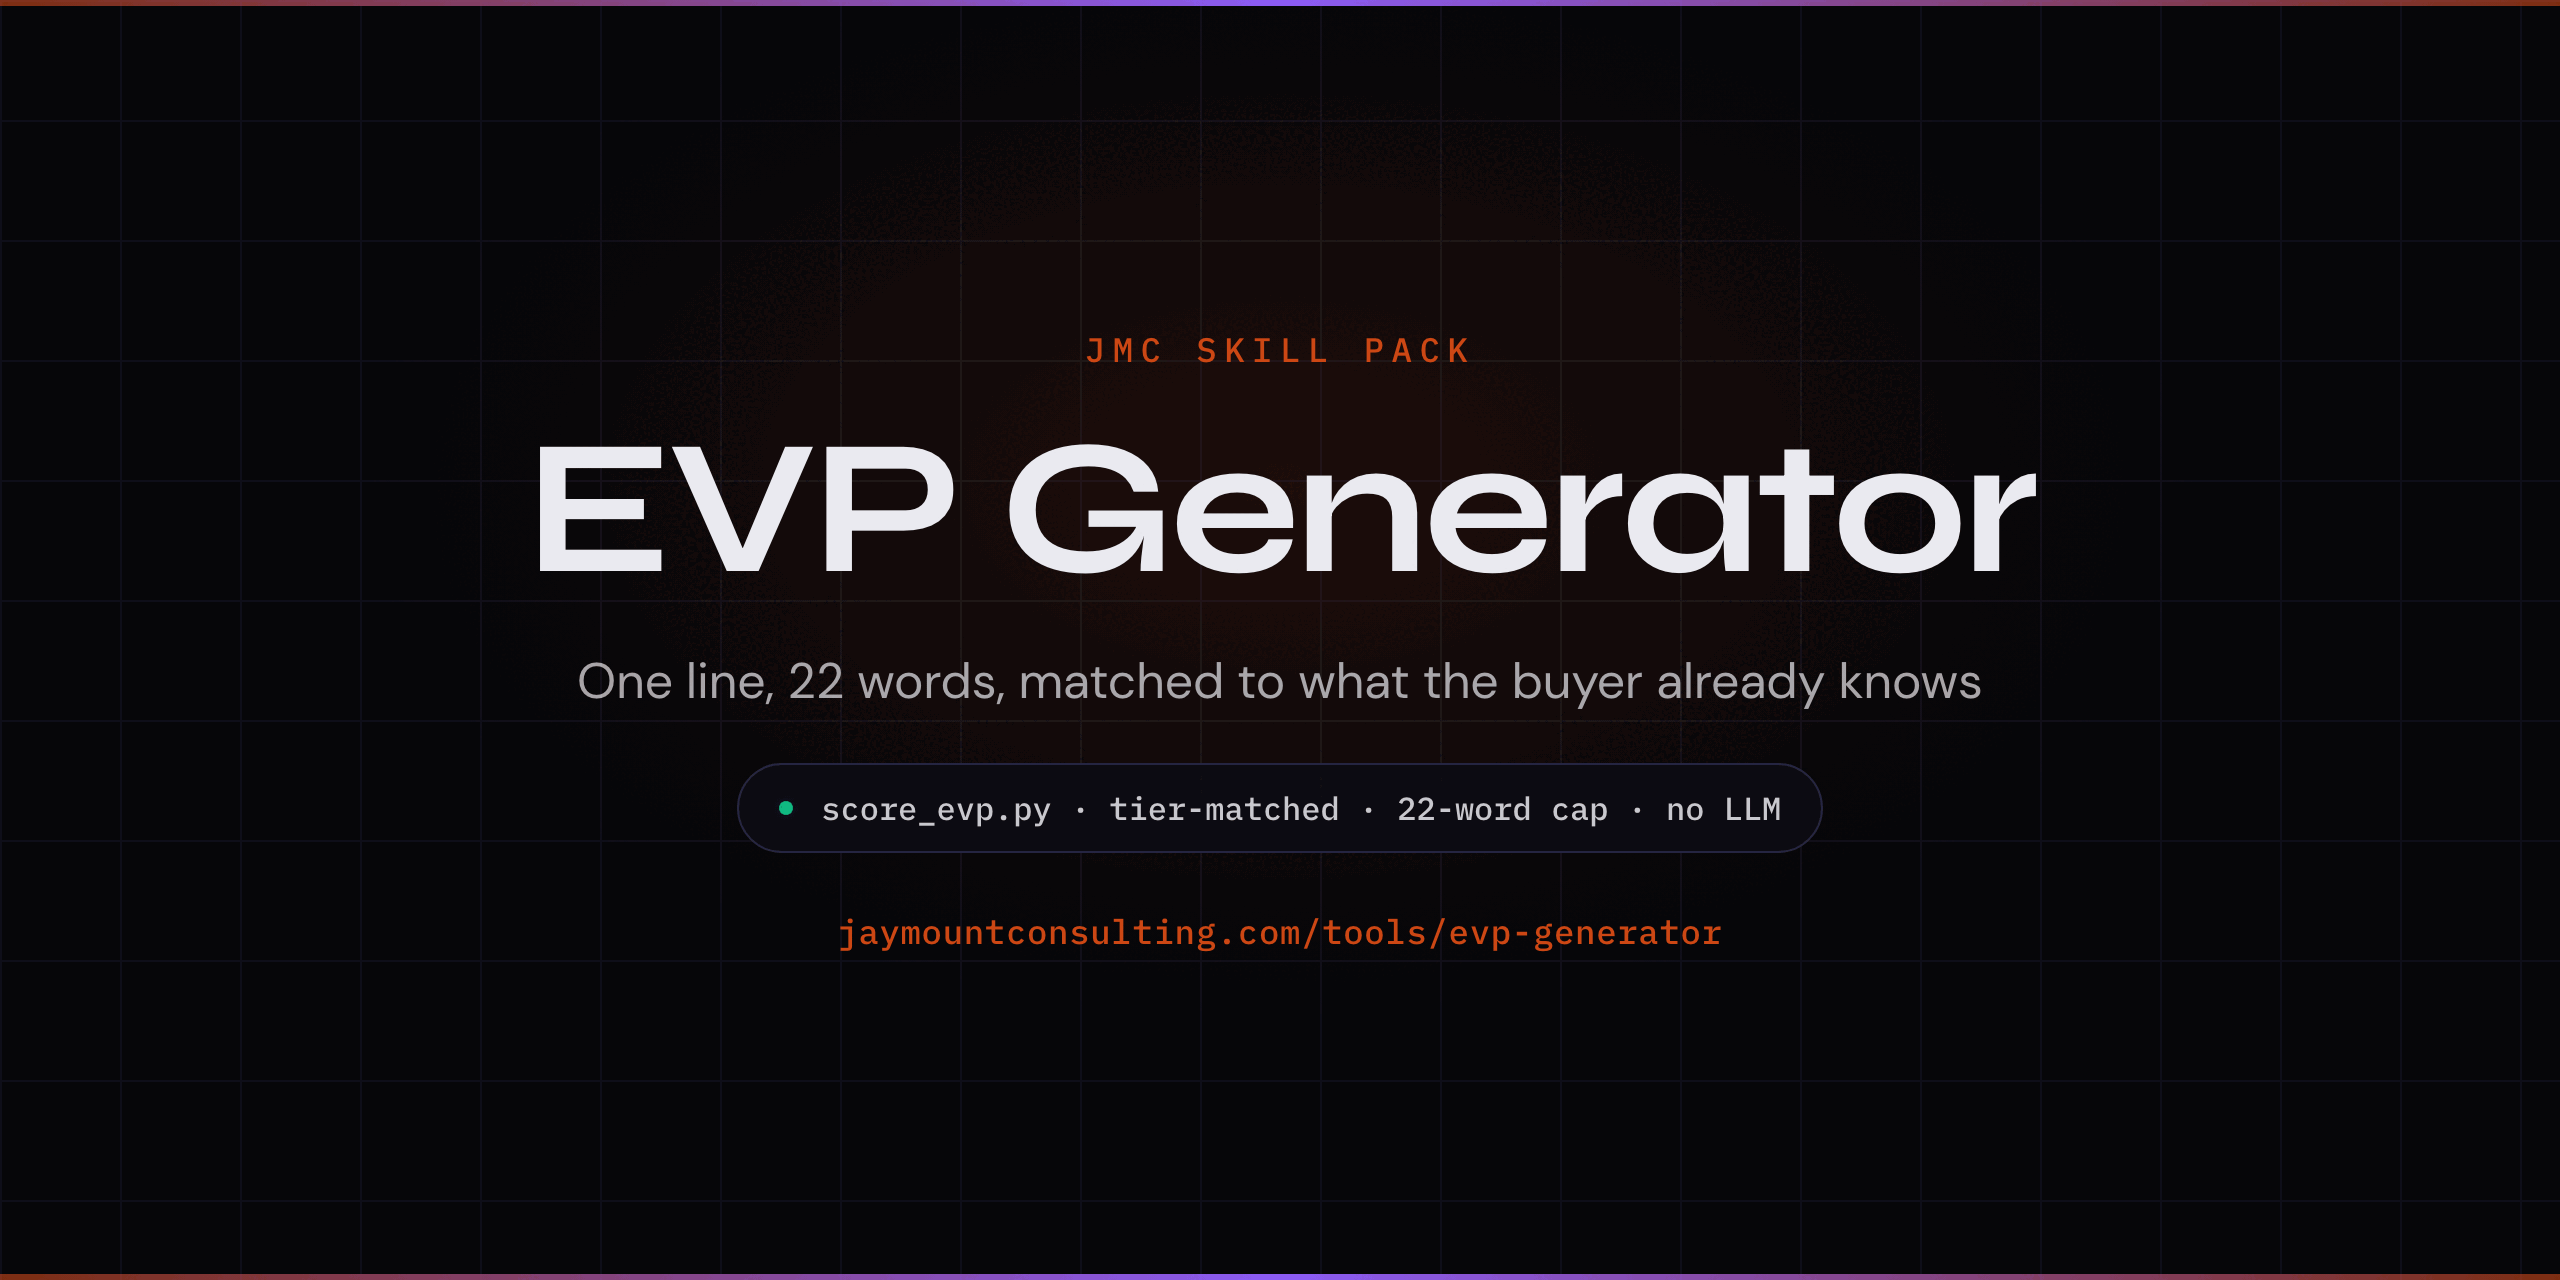
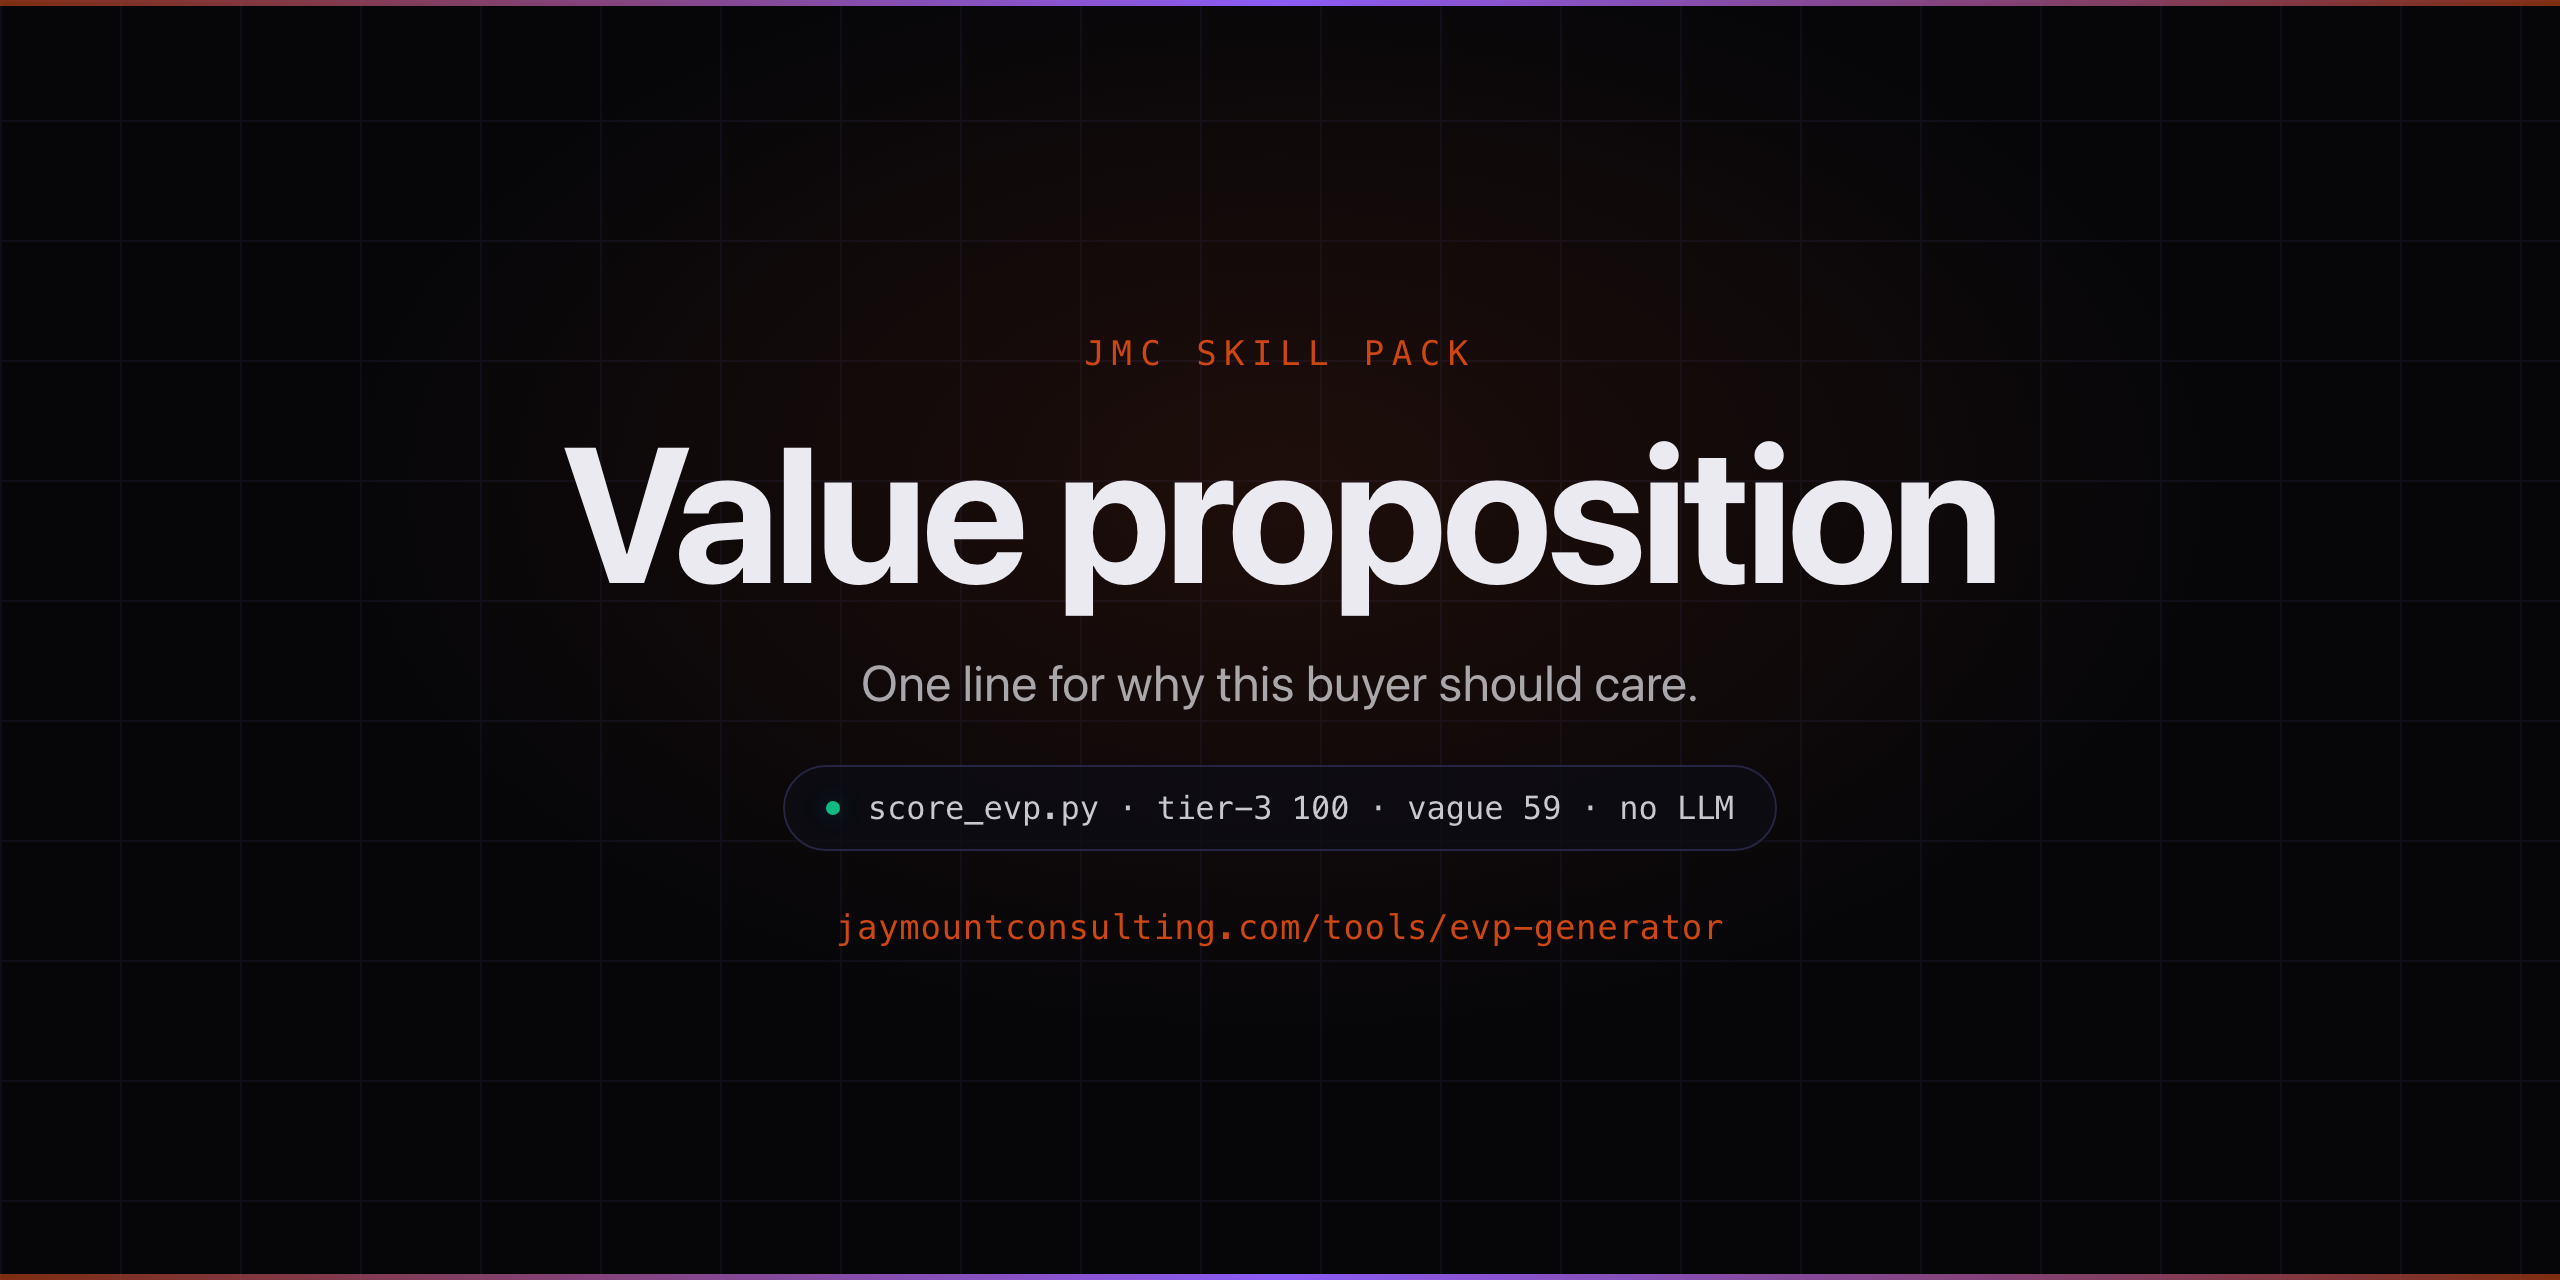
docs(assets): put the search phrase on the card and demo
Header, social card, and demo now use the search phrase and the scores already printed in the README.

diff --git a/README.md b/README.md
@@ -26,7 +26,7 @@ The build guide teaches the framework to a human. This pack teaches the same fra
 ![Install](https://img.shields.io/badge/install-npx%20skills-blue)
 
 <p align="center">
-  <img src="./assets/demo.gif" alt="claude-evp — scoring a 22-word Tier-3 Early Value Proposition 100 vs 59" width="100%">
+  <img src="./assets/demo.gif" alt="Value proposition skill — Tier-3 line 100, vague line 59" width="100%">
 </p>
 
 ## What this replaces
